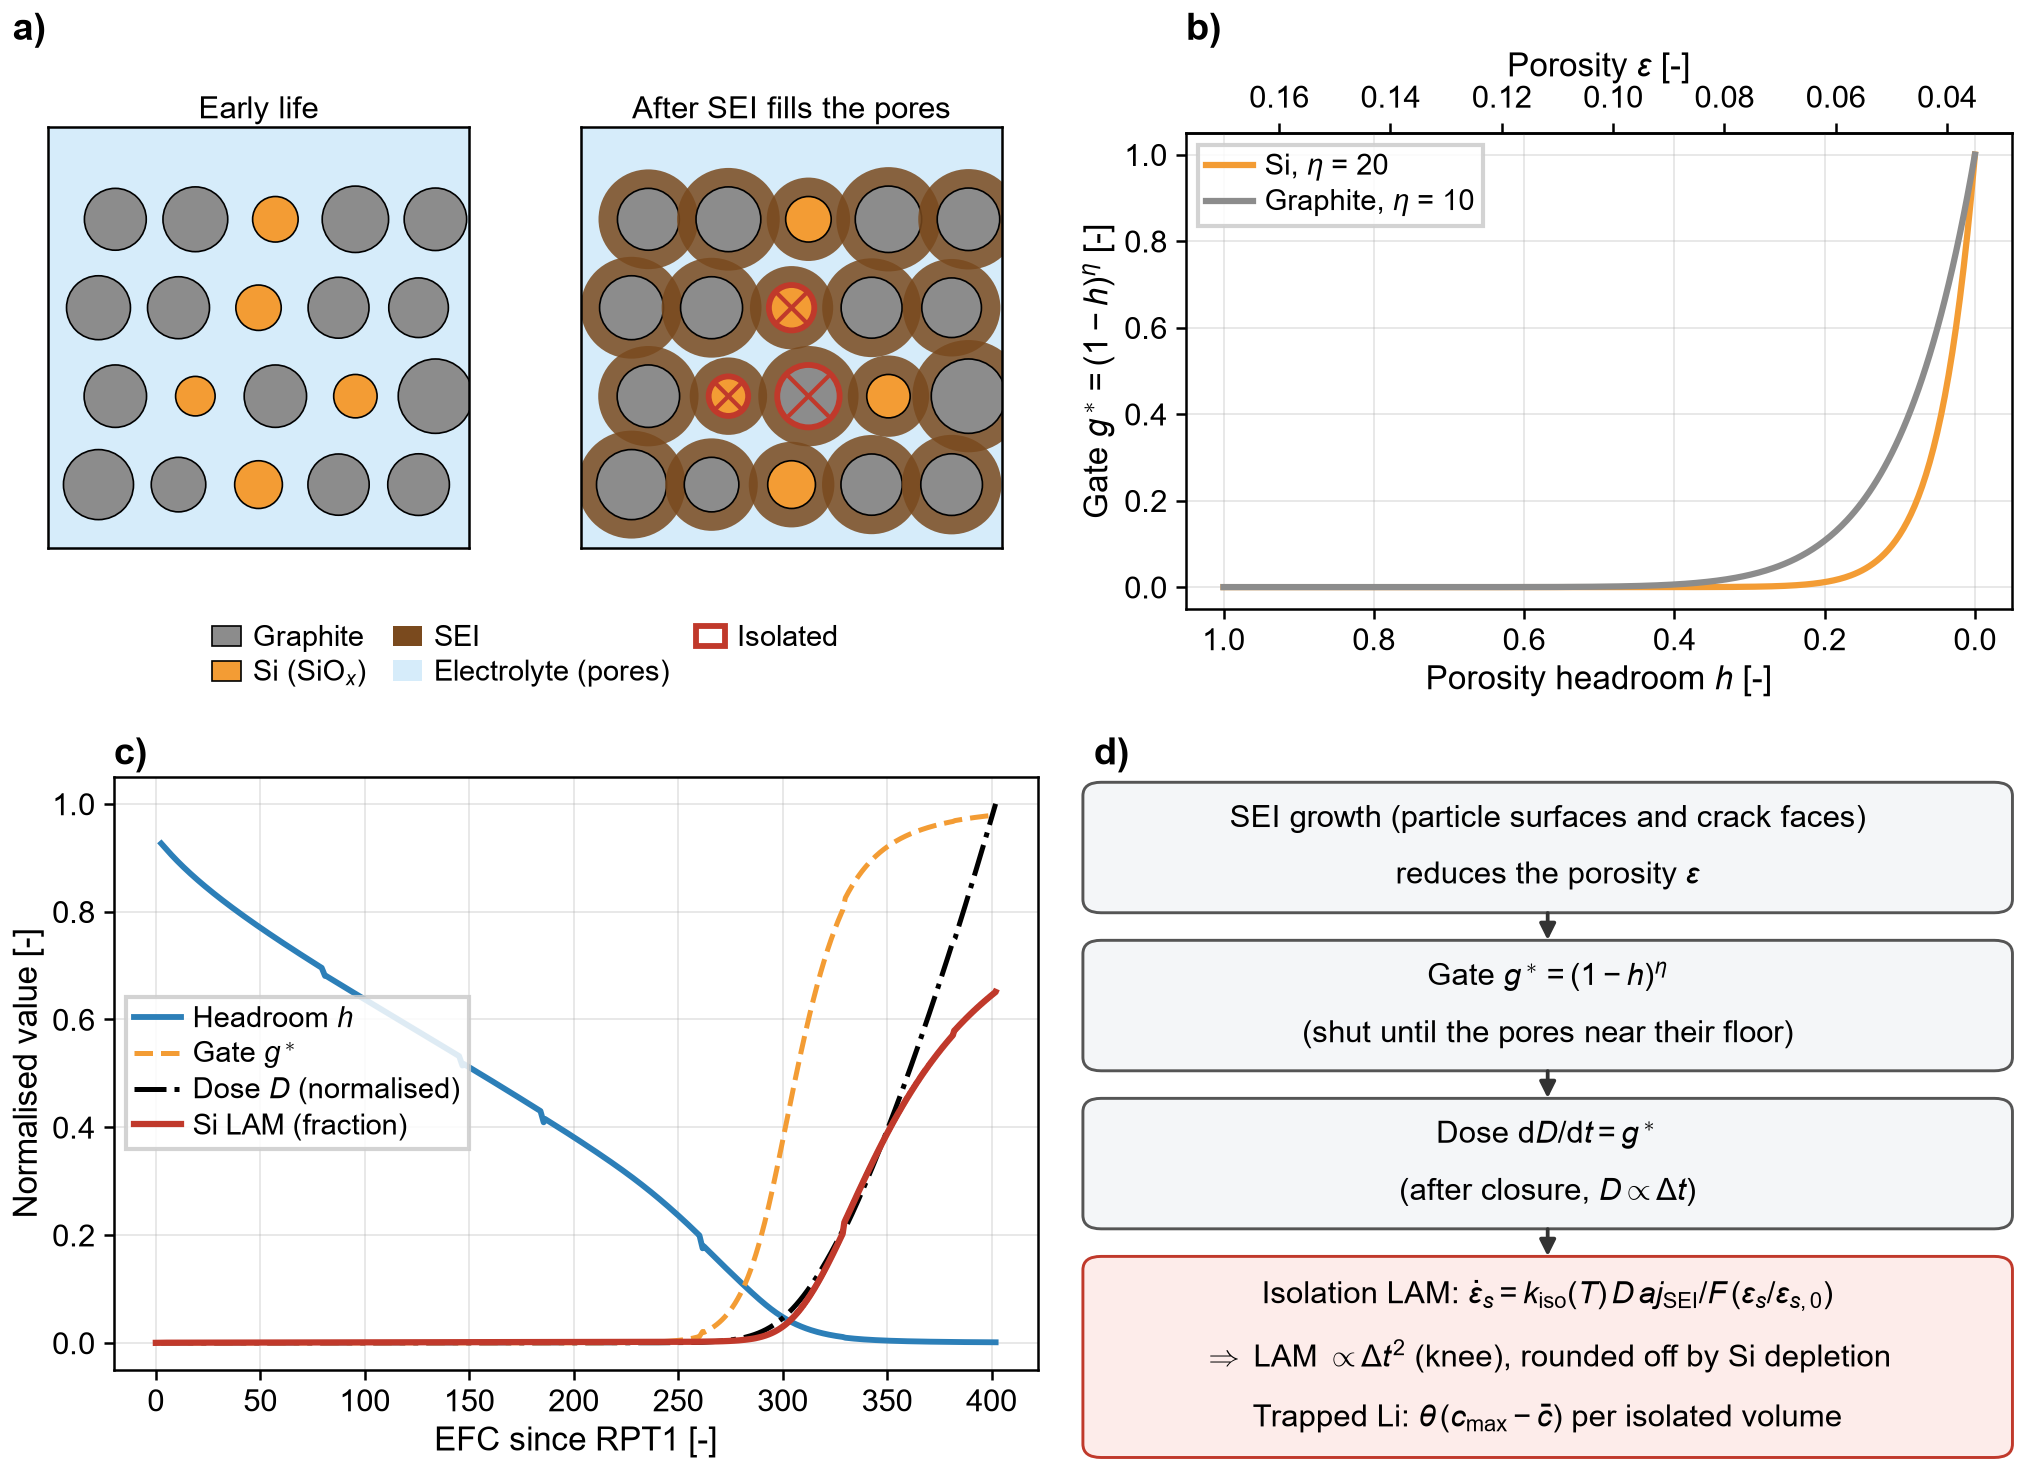
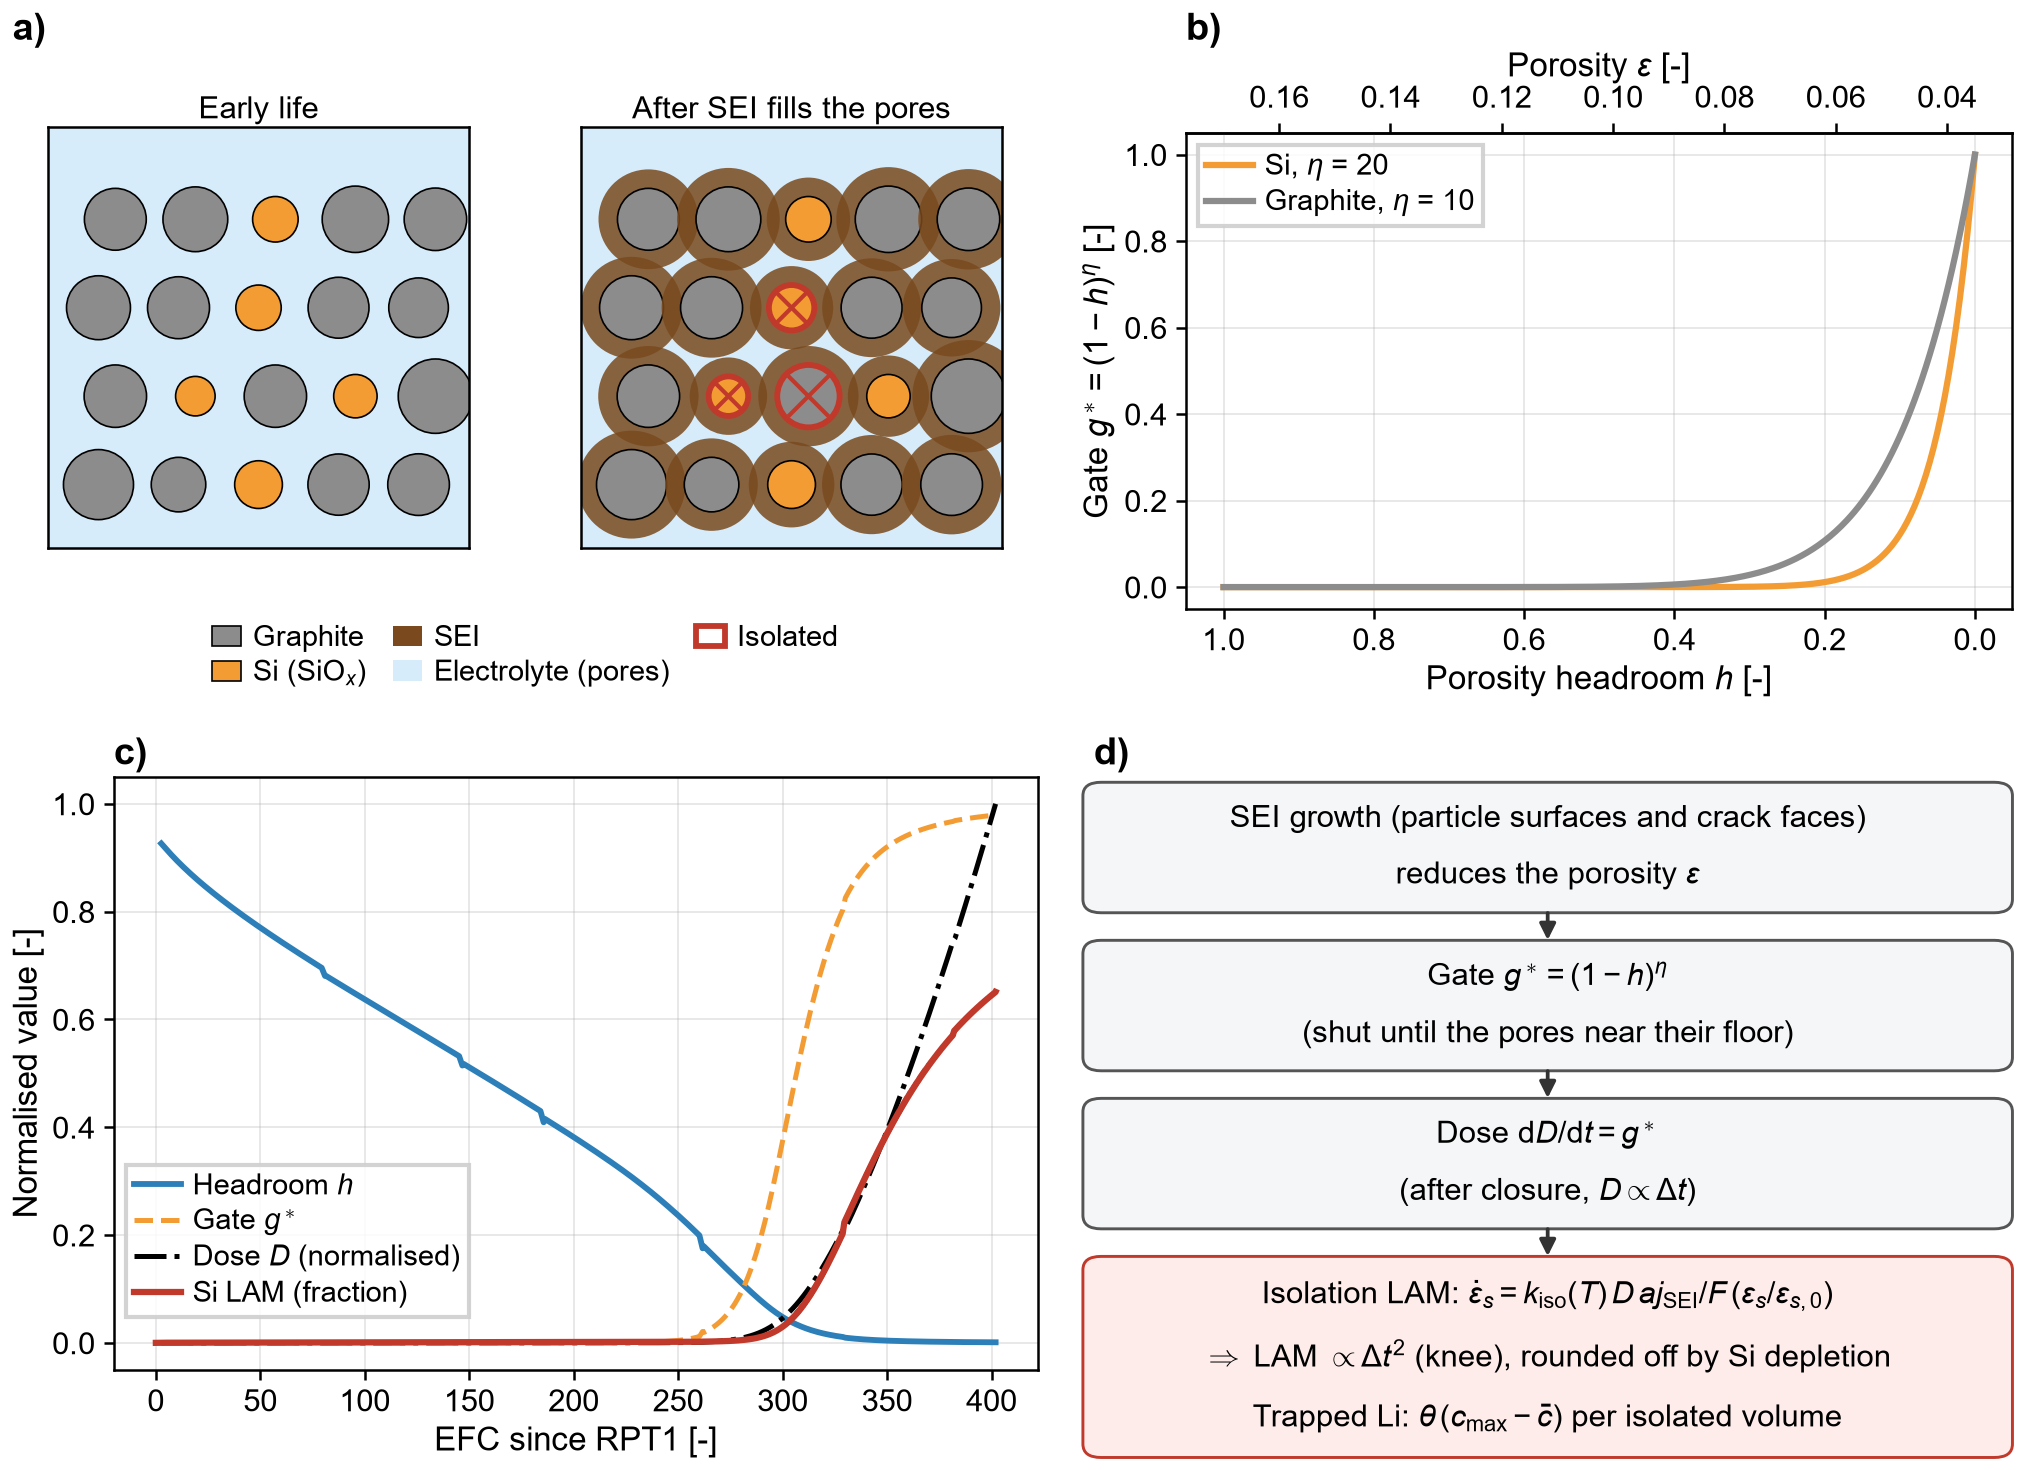
paper: mechanism I schematic, panel c legend moved down off the headroom curve

Changed region(s): [[0.0622, 0.6735, 0.2178, 0.8878], [0.2178, 0.7041, 0.2489, 0.7347]]

diff --git a/paper/sigr/figures.py b/paper/sigr/figures.py
@@ -157,7 +157,7 @@ def schematic_mech1(results_dir, key="25deg_15-95_soc"):
     a2.plot(an.efc(res, res["thr"])[m], res["LAM_si"][m] / 100, color=C_ISO, lw=1.5, label="Si LAM (fraction)")
     a2.set_xlabel(plots.EFC_LABEL)
     a2.set_ylabel("Normalised value [-]")
-    a2.legend(loc="center left")
+    a2.legend(loc="lower left", bbox_to_anchor=(0.0, 0.07))
     style.panel_label(a2, 2)
 
     a3 = sf[1, 1].subplots()
